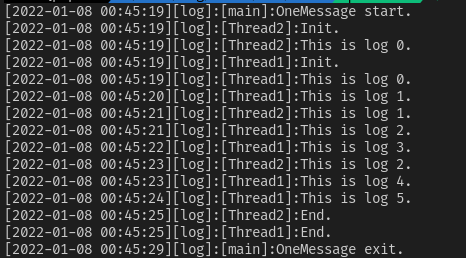
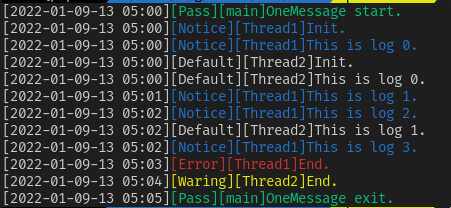
log打印支持颜色

diff --git a/src/om.c b/src/om.c
@@ -1,12 +1,21 @@
 #include "om.h"
 
+#if OM_VIRTUAL_TIME
 static om_time_t time_handle;
+#endif
 
 extern om_list_head_t topic_list;
 
 om_mutex_t om_mutex_handle;
 
 om_config_t OM_EMPTY_CONFIG = {.arg = NULL, .op = OM_CONFIG_END};
+
+static const char *color_tab[OM_LOG_COLOR_NUMBER][3] = {
+    {"\033[31m", "\033[0m", "Error"},
+    {"\033[32m", "\033[0m", "Pass"},
+    {"\033[34m", "\033[0m", "Notice"},
+    {"\033[33m", "\033[0m", "Waring"},
+    {"\0", "\0", "Default"}};
 
 #if OM_LOG_OUTPUT
 static om_topic_t *om_log;
@@ -103,7 +112,7 @@ om_status_t _om_publish(om_topic_t *topic, om_msg_t *msg) {
   OM_ASSENT(topic);
   OM_ASSENT(msg);
 
-  msg->time = om_time_get(&time_handle);
+  om_time_get(&msg->time);
 
   if (topic->user_fun.filter == NULL || topic->user_fun.filter(msg) == OM_OK) {
     if (topic->user_fun.decode) topic->user_fun.decode(msg);
@@ -240,11 +249,17 @@ om_status_t om_deinit() {
 #if OM_LOG_OUTPUT
 inline om_topic_t *om_get_log_handle() { return om_log; }
 
-om_status_t om_print_log(const char *format, ...) {
+om_status_t om_print_log(char *name, om_log_level_t level, const char *format,
+                         ...) {
   om_log_t log;
+  om_time_get(&log.time);
+  char fm_buf[OM_LOG_MAX_LEN];
+  snprintf(fm_buf, OM_LOG_MAX_LEN, "\033[0m%s[%s][%s]%s%s\n",
+           color_tab[level][0], color_tab[level][2], name, format,
+           color_tab[level][1]);
   va_list vArgList;
   va_start(vArgList, format);
-  vsnprintf(log.data, OM_LOG_MAX_LEN, format, vArgList);
+  vsnprintf(log.data, OM_LOG_MAX_LEN, fm_buf, vArgList);
   va_end(vArgList);
   return om_publish_with_handle(om_log, &log, sizeof(om_log_t), true);
 }

diff --git a/src/om.h b/src/om.h
@@ -29,6 +29,23 @@ typedef struct {
   om_time_t time;
 } om_log_t;
 
+typedef enum {
+  OM_LOG_COLOR_RED,
+  OM_LOG_COLOR_GREEN,
+  OM_LOG_COLOR_BLUE,
+  OM_LOG_COLOR_YELLOW,
+  OM_LOG_COLOR_DEFAULT,
+  OM_LOG_COLOR_NUMBER
+} om_log_color_t;
+
+typedef enum {
+  OM_LOG_DEFAULT = OM_LOG_COLOR_DEFAULT,
+  OM_LOG_WARNING = OM_LOG_COLOR_YELLOW,
+  OM_LOG_ERROR = OM_LOG_COLOR_RED,
+  OM_LOG_PASS = OM_LOG_COLOR_GREEN,
+  OM_LOG_NOTICE = OM_LOG_COLOR_BLUE
+} om_log_level_t;
+
 om_status_t om_init();
 
 om_status_t om_config_topic(om_topic_t* topic, om_config_t* config);
@@ -57,7 +74,8 @@ om_status_t om_deinit();
 
 #if OM_LOG_OUTPUT
 om_topic_t* om_get_log_handle();
-om_status_t om_print_log(const char* format, ...);
+om_status_t om_print_log(char* name, om_log_level_t level, const char* format,
+                         ...);
 #endif
 
 extern om_config_t OM_EMPTY_CONFIG;

diff --git a/config/om_config_template.h b/config/om_config_template.h
@@ -1,5 +1,3 @@
-#include <pthread.h>
-
 /* OneMessage主线程调用的频率 */
 #define OM_CALL_FREQ (1000)
 
@@ -13,6 +11,7 @@
 #endif
 
 /* OS层互斥锁api */
+#include <pthread.h>
 #define om_mutex_t pthread_mutex_t
 #define om_mutex_init(arg) pthread_mutex_init(arg, NULL)
 #define om_mutex_lock(arg) pthread_mutex_lock(arg)
@@ -25,7 +24,7 @@
 #if !OM_VIRTUAL_TIME
 #include <time.h>
 #define om_time_t time_t
-#define om_time_get(_time) time(NULL)
+#define om_time_get(_time) time(_time)
 #endif
 
 /* 开启"om_log"话题作为OneMessage的日志输出 */
@@ -35,4 +34,4 @@
 #define OM_TOPIC_MAX_NAME_LEN (10)
 
 /* 日志最大长度 */
-#define OM_LOG_MAX_LEN (30)
+#define OM_LOG_MAX_LEN (50)

diff --git a/test/om_test_case.c b/test/om_test_case.c
@@ -123,9 +123,10 @@ START_TEST(om_log) {
 
   ck_assert_msg(topic_log, "获取不到log话题。");
   om_topic_add_suber(topic_log, sub);
-  om_print_log("%s", str_log);
-  ck_assert_msg(!strncmp(str_log, sub->msg_buff.buff, OM_LOG_MAX_LEN),
-                "log发送失败。");
+  om_print_log("init", OM_LOG_DEFAULT, "%s", str_log);
+  ck_assert_msg(
+      !strcmp(sub->msg_buff.buff, "\033[0m[Default][init]Log test.\n"),
+      "LOG数据错误");
   om_deinit();
 }
 END_TEST

diff --git a/doc/user.md b/doc/user.md
@@ -97,7 +97,15 @@
 block参数决定当其他线程发布时是否阻塞
 ## log
     om_topic_t* om_get_log_handle();
-    om_status_t om_print_log(const char* format, ...);
+    om_status_t om_print_log(char* name, om_log_level_t level, const char* format,...);
+
+| Level          | Color                |
+| -------------- | -------------------- |
+| OM_LOG_DEFAULT | OM_LOG_COLOR_DEFAULT |
+| OM_LOG_WARNING | OM_LOG_COLOR_YELLOW  |
+| OM_LOG_ERROR   | OM_LOG_COLOR_RED     |
+| OM_LOG_PASS    | OM_LOG_COLOR_GREEN   |
+| OM_LOG_NOTICE  | OM_LOG_COLOR_BLUE    |
 ## 其他API
 | 函数名             | 功能               |
 | ------------------ | ------------------ |
